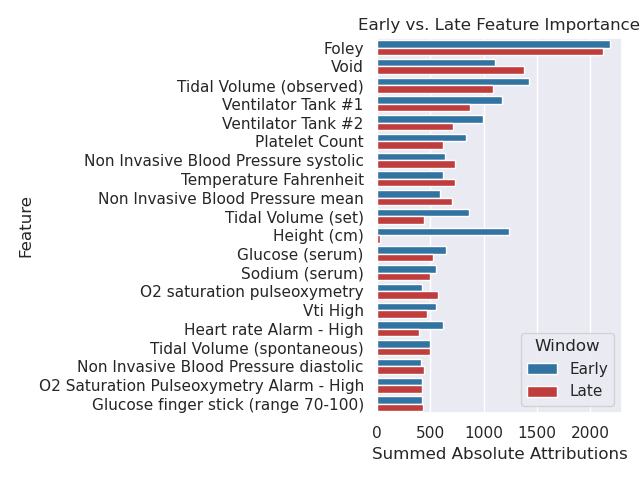
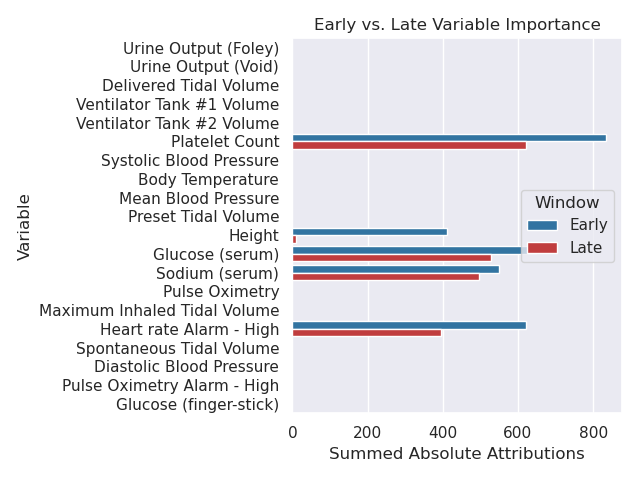
Make charts prettier

Changed region(s): [[0.0625, 0.0312, 1.0, 0.9062], [0.5, 0.875, 1.0, 0.9688], [0.0312, 0.4062, 0.0625, 0.5625]]

diff --git a/src/tabsep/reporting/localImportance.py b/src/tabsep/reporting/localImportance.py
@@ -5,7 +5,8 @@ import matplotlib.pyplot as plt
 import seaborn as sns
 from tabsep.dataProcessing.fileBasedDataset import get_feature_labels
 from tabsep import config
-
+from matplotlib.colors import ListedColormap
+from tabsep.reporting import pretty_feature_names
 
 if __name__ == "__main__":
     X_test = torch.load(f"{config.model_path}/X_test.pt")
@@ -18,13 +19,16 @@ if __name__ == "__main__":
 
     sample_idx = np.argmax(
         torch.logical_and(
-            torch.logical_and(y_test == 1, torch.sum(X_test[:, :, -1], dim=1) > 7,),
-            torch.logical_and(torch.sum(X_test[:, :, -1], dim=1) < 40, preds > 0.7),
+            torch.logical_and(y_test == 1, torch.sum(X_test[:, :, -1], dim=1) > 5,),
+            torch.logical_and(torch.sum(X_test[:, :, -1], dim=1) < 25, preds > 0.5),
         )
     )
 
     print(f"Analyzing local importance of idx {sample_idx}")
-    sample_case_attrs = pd.DataFrame(attributions[sample_idx].cpu().detach().numpy())
+    sample_case_attrs_values = attributions[sample_idx].cpu().detach().numpy()
+    # Simplify for poster presentation
+    sample_case_attrs_values = np.abs(sample_case_attrs_values)
+    sample_case_attrs = pd.DataFrame(sample_case_attrs_values)
     sample_case_values = pd.DataFrame(X_test[sample_idx, :, :-1].cpu().detach().numpy())
 
     sample_case_attrs.columns = get_feature_labels()
@@ -52,19 +56,52 @@ if __name__ == "__main__":
         config.timestep_seconds / (60 * 60)
     )
 
-    sample_case_attrs.index.name = "Time in ICU (hrs.)"
+    sample_case_attrs.index.name = "Time in ICU (hours)"
+    sample_case_attrs.index = sample_case_attrs.index.astype(int)
+    sample_case_attrs = sample_case_attrs.rename(columns=pretty_feature_names)
 
+    sns.set(font_scale=2)
+    fig, ax = plt.subplots(figsize=(15, 8))
+    sns.heatmap(
+        sample_case_attrs.transpose(),
+        linewidths=0.1,
+        linecolor="black",
+        # annot=sample_case_values.transpose(),
+        # fmt=".2f",
+        ax=ax,
+        cmap="Reds",
+        # cbar=False,
+        # cbar_kws={"label": "Attribution (darker = more important)"},
+    )
+    cbar = ax.collections[0].colorbar
+    cbar.set_label("Attribution Value", labelpad=20)
+    ax.set_xticklabels(ax.get_xticklabels(), rotation=40, ha="right")
+    ax.set_yticklabels(ax.get_yticklabels(), rotation=0)
+    ax.set_ylabel("Variable")
+    # ax.set_title(
+    #     f"Validation set idx {sample_idx} prediction {preds[sample_idx]:.2f} actual {y_test[sample_idx]:.2f}"
+    # )
+    plt.savefig("results/local_importance.png", bbox_inches="tight")
+
+    plt.clf()
+
+    # Now save a "blank" colorless heatmap for poster
     fig, ax = plt.subplots(figsize=(15, 15))
     sns.heatmap(
         sample_case_attrs.transpose(),
-        linewidths=0.01,
+        linewidths=0.1,
         linecolor="black",
-        # annot=sample_case_values.transpose(),
+        annot=sample_case_values.transpose(),
+        fmt=".2f",
         ax=ax,
+        cmap=ListedColormap(["white"]),
+        cbar=False,
     )
     ax.set_xticklabels(ax.get_xticklabels(), rotation=40, ha="right")
     ax.set_yticklabels(ax.get_yticklabels(), rotation=0)
-    ax.set_title(
-        f"Validation set idx {sample_idx} prediction {preds[sample_idx]:.2f} actual {y_test[sample_idx]:.2f}"
-    )
-    plt.savefig("results/local_importance.png", bbox_inches="tight")
+    # ax.set_title(
+    #     f"Validation set idx {sample_idx} prediction {preds[sample_idx]:.2f} actual {y_test[sample_idx]:.2f}"
+    # )
+    plt.savefig("results/local_importance_blank.png", bbox_inches="tight")
+
+    plt.clf()

diff --git a/src/tabsep/reporting/globalImportance.py b/src/tabsep/reporting/globalImportance.py
@@ -8,6 +8,7 @@ import matplotlib.pyplot as plt
 import seaborn as sns
 from tabsep.dataProcessing.fileBasedDataset import get_feature_labels
 from tabsep import config
+from tabsep.reporting import pretty_feature_names
 
 
 def revise_pad(pm):
@@ -50,7 +51,7 @@ def summative_importances(att):
 
     importances = pd.DataFrame(
         data={
-            "Feature": get_feature_labels(),
+            "Variable": get_feature_labels(),
             "Positive": sum_pos_attrs.to("cpu").detach().numpy(),
             "Negative": sum_neg_attr.to("cpu").detach().numpy(),
         }
@@ -80,13 +81,16 @@ if __name__ == "__main__":
     importances = summative_importances(att)
     print("Got global importances")
     topn = importances.nlargest(20, columns="Summed Absolute Attributions")
+    topn["Variable"] = topn["Variable"].apply(
+        lambda x: pretty_feature_names[x] if x in pretty_feature_names else x
+    )
 
     sns.set_theme()
 
     ax = sns.barplot(
-        x="Summed Absolute Attributions", y="Feature", data=topn, orient="h", color="b"
+        x="Summed Absolute Attributions", y="Variable", data=topn, orient="h", color="b"
     )
-    ax.set_title(f"Global Feature Importance")
+    ax.set_title(f"Global Importance")
     plt.tight_layout()
     plt.savefig(f"results/global_importances.png")
     plt.clf()
@@ -104,19 +108,19 @@ if __name__ == "__main__":
     late_importances["Window"] = "Late"
 
     plottable = pd.concat([early_importances, late_importances])
-    plottable = plottable[plottable["Feature"].isin(topn["Feature"])]
+    plottable = plottable[plottable["Variable"].isin(topn["Variable"])]
 
     ax = sns.barplot(
         x="Summed Absolute Attributions",
-        y="Feature",
+        y="Variable",
         data=plottable,
         orient="h",
         color="b",
         hue="Window",
         palette={"Early": "tab:blue", "Late": "tab:red"},
-        order=topn["Feature"],
+        order=topn["Variable"],
     )
-    ax.set_title("Early vs. Late Feature Importance")
+    ax.set_title("Early vs. Late Variable Importance")
     plt.tight_layout()
     plt.savefig("results/evl_importances.png")
 

diff --git a/src/tabsep/reporting/__init__.py b/src/tabsep/reporting/__init__.py
@@ -1,0 +1,24 @@
+# Map weird-looking feature names to more human-friendly names
+from re import M
+
+
+pretty_feature_names = {
+    "Foley": "Urine Output (Foley)",
+    "Void": "Urine Output (Void)",
+    "Ventilator Tank #1": "Ventilator Tank #1 Volume",
+    "Ventilator Tank #2": "Ventilator Tank #2 Volume",
+    "Vti High": "Maximum Inhaled Tidal Volume",
+    "Glucose finger stick (range 70-100)": "Glucose (finger-stick)",
+    "Tidal Volume (set)": "Preset Tidal Volume",
+    "Tidal Volume (observed)": "Delivered Tidal Volume",
+    "Tidal Volume (spontaneous)": "Spontaneous Tidal Volume",
+    "Temperature Fahrenheit": "Body Temperature",
+    "Height (cm)": "Height",
+    "Blood Pressure Systolic": "Systolic Blood Pressure",
+    "Blood Pressure Diastolic": "Diastolic Blood Pressure",
+    "Non Invasive Blood Pressure systolic": "Systolic Blood Pressure",
+    "Non Invasive Blood Pressure diastolic": "Diastolic Blood Pressure",
+    "Non Invasive Blood Pressure mean": "Mean Blood Pressure",
+    "O2 saturation pulseoxymetry": "Pulse Oximetry",
+    "O2 Saturation Pulseoxymetry Alarm - High": "Pulse Oximetry Alarm - High",
+}

diff --git a/src/tabsep/reporting/roccurves.py b/src/tabsep/reporting/roccurves.py
@@ -8,13 +8,12 @@ from tabsep.modeling.timeseriesCV import CVResults, SingleCVResult
 
 if __name__ == "__main__":
     fancy_names = {
-        "Pipeline": "Logistic Regression",
-        "TstWrapper": "Time Series Transformer",
+        "Pipeline": "LR",
+        "TstWrapper": "TST",
     }
 
     colors = ["b", "g", "c", "m", "y"]
 
-    plt.title(f"Receiver Operating Characteristic")
     plt.plot([0, 1], [0, 1], "r--")
     plt.xlim([0, 1])
     plt.ylim([0, 1])
@@ -62,8 +61,10 @@ if __name__ == "__main__":
             tprs_upper,
             color=colors[idx],
             alpha=0.1,
-            label=r"$\pm$ 1 std. dev.",
+            label=r"$\pm$ 1 standard deviation",
         )
 
     plt.legend(loc="lower right")
+    plt.xlabel("1 - Specificity")
+    plt.ylabel("Sensitivity")
     plt.savefig(f"results/roc_curve_all.png")

diff --git a/src/tabsep/reporting/table1.py b/src/tabsep/reporting/table1.py
@@ -212,6 +212,15 @@ class Table1Generator(object):
             value=self._pprint_mean(self.all_df["cci_score"]),
         )
 
+    def _tablegen_LOS(self) -> None:
+        self.all_df["los"] = self.all_df.apply(
+            lambda x: (x["outtime"] - x["intime"]).total_seconds() / (60 * 60), axis=1
+        )
+        self._add_table_row(
+            item="Average Length of ICU Stay (hrs)",
+            value=self._pprint_mean(self.all_df["los"]),
+        )
+
     def populate(self) -> pd.DataFrame:
         tablegen_methods = [m for m in dir(self) if m.startswith("_tablegen")]
 

diff --git a/src/tabsep/modeling/timeseriesCV.py b/src/tabsep/modeling/timeseriesCV.py
@@ -345,7 +345,9 @@ if __name__ == "__main__":
         "LR Scaled": make_pipeline(
             FeatureScaler(), Ts2TabTransformer(), LogisticRegression(max_iter=1e7)
         ),
-        "LR": make_pipeline(Ts2TabTransformer(), LogisticRegression()),
+        "LR": make_pipeline(
+            FeatureScaler(), Ts2TabTransformer(), LogisticRegression(max_iter=1e7)
+        ),
         "XGBOOST": XGBClassifier(),
         "TST": TstWrapper(),
     }
